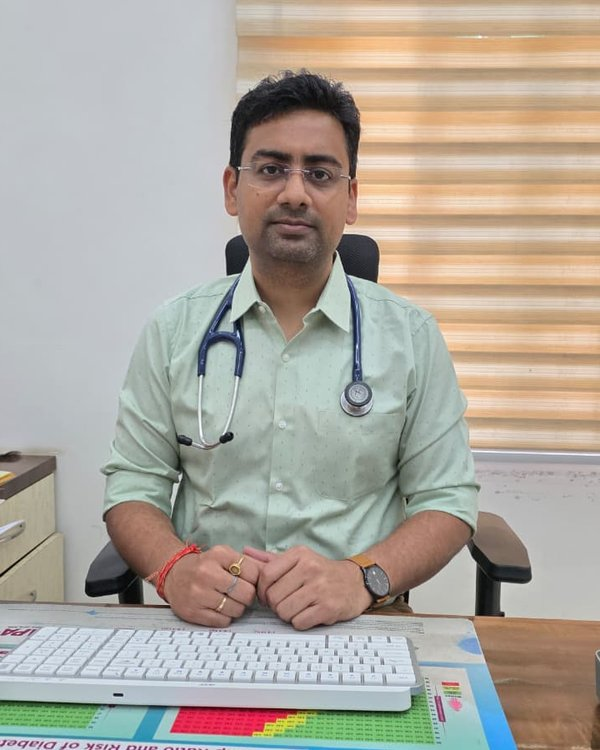
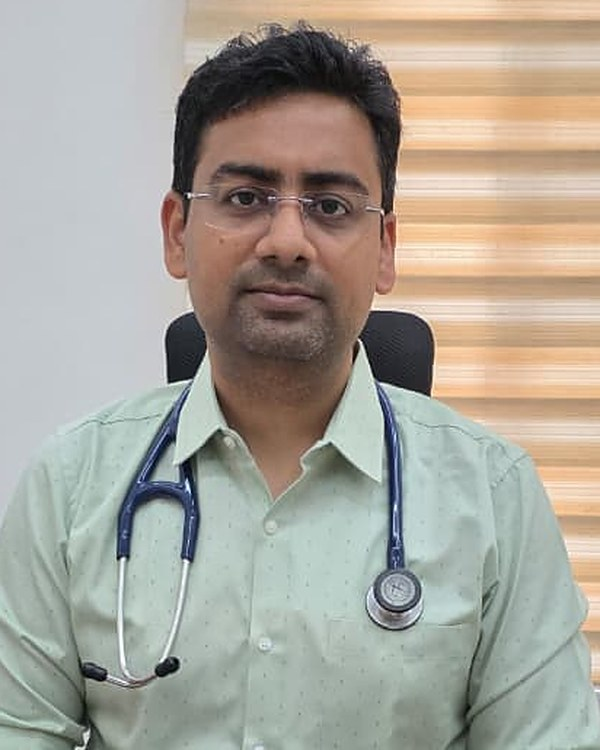
Doctors: standardise portraits, add Dr. Nidhi Surjan, reorder, remove dental section, footer emergency line

diff --git a/doctors.html b/doctors.html
@@ -101,7 +101,7 @@
         <!-- Resident doctors -->
         <section aria-labelledby="resident-doctors-heading">
           <h2 id="resident-doctors-heading">Resident doctors</h2>
-          <div class="doctors-grid-2" style="max-width:760px;">
+          <div class="doctors-grid">
             <!-- Dr. Tanay Surjan -->
             <div class="card doctor-card">
               <div class="doctor-photo-frame">
@@ -115,6 +115,23 @@
               <p class="doctor-qualification">MBBS, MD (General Medicine)</p>
               <p class="doctor-speciality">Speciality: General Medicine</p>
               <p class="doctor-experience">11 years of experience</p>
+              <p class="doctor-timing-note">For days and timings, please call the hospital.</p>
+              <a href="tel:+918602565053" class="btn btn-outline dept-call-btn">📞 Call to enquire</a>
+            </div>
+
+            <!-- Dr. Nidhi Surjan -->
+            <div class="card doctor-card">
+              <!-- PHOTO PENDING: when the photo arrives, save it as assets/images/doctors/dr-nidhi-surjan.jpg (600x750, 4:5, head-and-shoulders, same framing as the other two portraits) and replace this placeholder block with the same <img> markup used for the other resident doctors, alt="Portrait of Dr. Nidhi Surjan". -->
+              <div class="doctor-photo-frame doctor-photo-placeholder">
+                <div class="doctor-placeholder-inner">
+                  <img src="assets/icons/doctor-avatar.svg" width="96" height="96" alt="" class="doctor-avatar">
+                  <div class="tbc-block"><p class="doctor-placeholder-text">Photo coming soon</p></div>
+                </div>
+              </div>
+              <h3 class="doctor-name">Dr. Nidhi Surjan</h3>
+              <p class="doctor-qualification">BDS</p>
+              <p class="doctor-speciality">Speciality: Dentist</p>
+              <p class="doctor-experience">12 years of experience</p>
               <p class="doctor-timing-note">For days and timings, please call the hospital.</p>
               <a href="tel:+918602565053" class="btn btn-outline dept-call-btn">📞 Call to enquire</a>
             </div>
@@ -141,8 +158,8 @@
         <!-- Visiting consultants -->
         <section style="margin-top:3rem;" aria-labelledby="visiting-consultants-heading">
           <h2 id="visiting-consultants-heading">Visiting consultants</h2>
-          <p>Visiting consultants and their visiting schedule.</p>
-          <div class="doctors-grid-3">
+          <p class="visiting-schedule-intro">Visiting consultants and their visiting schedule.</p>
+          <div class="doctors-grid">
             <!-- Dr. Sumit Bhatnagar -->
             <div class="card doctor-card" style="text-align:center;">
               <div class="doctor-avatar-wrap">
@@ -175,21 +192,7 @@
           </div>
 
           <div style="margin-top:1.5rem; text-align:center;">
-            <p style="margin-bottom:1rem;">Please call to confirm the date before you visit.</p>
-            <a href="tel:+918602565053" class="btn btn-outline dept-call-btn">📞 Call to enquire</a>
-          </div>
-        </section>
-
-        <!-- Dental department -->
-        <section style="margin-top:3rem;" aria-labelledby="dental-heading">
-          <h2 id="dental-heading">Dental department</h2>
-          <div class="card dept-card" style="max-width:400px; margin-top:1.5rem;">
-            <div class="dept-badge-wrap">
-              <img src="assets/icons/dept-dental.svg" width="96" height="96" alt="" class="dept-badge">
-            </div>
-            <h3>Dental</h3>
-            <p>Care for the teeth, gums and mouth, including check-ups and treatment of common problems such as tooth pain, cavities and gum disease.</p>
-            <p class="dept-consultant-note">Consultant details: please call the hospital.</p>
+            <p class="visiting-confirm-note" style="margin-bottom:1rem;">Please call to confirm the date before you visit.</p>
             <a href="tel:+918602565053" class="btn btn-outline dept-call-btn">📞 Call to enquire</a>
           </div>
         </section>
@@ -255,7 +258,7 @@
       <div class="footer-bottom">
         <p>&copy; 2026 Samarth Hospital. All rights reserved.</p>
         <p class="footer-emergency">
-          For a medical emergency, call the hospital or go to the nearest emergency department.
+          In an emergency, do not wait for an appointment. Go straight to the Casualty room.
         </p>
       </div>
     </div>

diff --git a/css/style.css b/css/style.css
@@ -2032,31 +2032,32 @@ a:focus {
 }
 
 /* ---------- Doctors Grid & Cards ---------- */
-.doctors-grid-2 {
-  display: grid;
-  grid-template-columns: 1fr;
-  gap: 1.5rem;
+.doctors-grid {
+  display: flex;
+  flex-wrap: wrap;
+  justify-content: center;
+  align-items: stretch;
+  gap: 20px;
   margin-top: 1.5rem;
 }
-@media (min-width: 640px) {
-  .doctors-grid-2 {
-    grid-template-columns: repeat(2, 1fr);
-  }
-}
-.doctors-grid-3 {
-  display: grid;
-  grid-template-columns: 1fr;
-  gap: 1.5rem;
-  margin-top: 1.5rem;
+.doctors-grid .doctor-card {
+  flex: 0 0 100%;
+  width: 100%;
+  max-width: 100%;
+  box-sizing: border-box;
 }
 @media (min-width: 600px) {
-  .doctors-grid-3 {
-    grid-template-columns: repeat(2, 1fr);
+  .doctors-grid .doctor-card {
+    flex: 0 0 calc((100% - 20px) / 2);
+    width: calc((100% - 20px) / 2);
+    max-width: calc((100% - 20px) / 2);
   }
 }
-@media (min-width: 900px) {
-  .doctors-grid-3 {
-    grid-template-columns: repeat(3, 1fr);
+@media (min-width: 1024px) {
+  .doctors-grid .doctor-card {
+    flex: 0 0 calc((100% - 40px) / 3);
+    width: calc((100% - 40px) / 3);
+    max-width: calc((100% - 40px) / 3);
   }
 }
 
@@ -2068,7 +2069,7 @@ a:focus {
   border-radius: var(--radius);
   padding: 1.5rem;
   box-shadow: var(--shadow-sm);
-  height: 100%;
+  height: auto;
 }
 .doctor-photo-frame {
   aspect-ratio: 4 / 5;
@@ -2085,11 +2086,38 @@ a:focus {
   width: 100%;
   height: 100%;
   object-fit: cover;
-  object-position: 50% 20%;
+  object-position: 50% 50%;
   display: block;
 }
 .doctor-photo-frame-sm {
   max-width: 200px;
+}
+.doctor-photo-placeholder {
+  background-color: var(--tint);
+  display: flex;
+  align-items: center;
+  justify-content: center;
+}
+.doctor-placeholder-inner {
+  display: flex;
+  flex-direction: column;
+  align-items: center;
+  justify-content: center;
+  text-align: center;
+  padding: 1rem;
+}
+.doctor-placeholder-inner .doctor-avatar {
+  width: 80px;
+  height: 80px;
+  display: block;
+}
+.doctor-placeholder-text {
+  font-size: 0.88rem;
+  font-weight: 600;
+  color: var(--ink);
+  margin-top: 0.5rem;
+  margin-bottom: 0;
+  text-align: center;
 }
 .doctor-name {
   font-size: 1.25rem;
@@ -2119,6 +2147,9 @@ a:focus {
   margin-top: auto;
   margin-bottom: 1.25rem;
 }
+.doctor-card .dept-call-btn {
+  margin-top: 0;
+}
 .doctor-schedule {
   font-size: 0.95rem;
   font-weight: 600;
@@ -2135,6 +2166,11 @@ a:focus {
   width: 100%;
   height: 100%;
   display: block;
+}
+.visiting-schedule-intro,
+.visiting-confirm-note {
+  color: var(--grey);
+  font-size: 1.05rem;
 }
 
 /* ---------- 19. Print Styles ---------- */

diff --git a/index.html b/index.html
@@ -262,7 +262,7 @@
       <div class="container">
         <h2 id="doctors-heading" class="section-title">Our Doctors</h2>
 
-        <div class="doctors-grid-2" style="max-width:680px; margin:1.5rem auto 0;">
+        <div class="doctors-grid">
           <!-- Dr. Tanay Surjan -->
           <div class="card doctor-card">
             <div class="doctor-photo-frame doctor-photo-frame-sm">
@@ -276,6 +276,23 @@
             <p class="doctor-qualification">MBBS, MD (General Medicine)</p>
             <p class="doctor-speciality">Speciality: General Medicine</p>
             <p class="doctor-experience">11 years of experience</p>
+            <p class="doctor-timing-note">For days and timings, please call the hospital.</p>
+            <a href="tel:+918602565053" class="btn btn-outline dept-call-btn">📞 Call to enquire</a>
+          </div>
+
+          <!-- Dr. Nidhi Surjan -->
+          <div class="card doctor-card">
+            <!-- PHOTO PENDING: when the photo arrives, save it as assets/images/doctors/dr-nidhi-surjan.jpg (600x750, 4:5, head-and-shoulders, same framing as the other two portraits) and replace this placeholder block with the same <img> markup used for the other resident doctors, alt="Portrait of Dr. Nidhi Surjan". -->
+            <div class="doctor-photo-frame doctor-photo-frame-sm doctor-photo-placeholder">
+              <div class="doctor-placeholder-inner">
+                <img src="assets/icons/doctor-avatar.svg" width="96" height="96" alt="" class="doctor-avatar">
+                <div class="tbc-block"><p class="doctor-placeholder-text">Photo coming soon</p></div>
+              </div>
+            </div>
+            <h3 class="doctor-name">Dr. Nidhi Surjan</h3>
+            <p class="doctor-qualification">BDS</p>
+            <p class="doctor-speciality">Speciality: Dentist</p>
+            <p class="doctor-experience">12 years of experience</p>
             <p class="doctor-timing-note">For days and timings, please call the hospital.</p>
             <a href="tel:+918602565053" class="btn btn-outline dept-call-btn">📞 Call to enquire</a>
           </div>
@@ -571,7 +588,7 @@
       <div class="footer-bottom">
         <p>&copy; 2026 Samarth Hospital. All rights reserved.</p>
         <p class="footer-emergency">
-          For a medical emergency, call the hospital or go to the nearest emergency department.
+          In an emergency, do not wait for an appointment. Go straight to the Casualty room.
         </p>
       </div>
     </div>

diff --git a/bmw-management.html b/bmw-management.html
@@ -1240,7 +1240,7 @@
       <div class="footer-bottom">
         <p>&copy; 2026 Samarth Hospital. All rights reserved.</p>
         <p class="footer-emergency">
-          For a medical emergency, call the hospital or go to the nearest emergency department.
+          In an emergency, do not wait for an appointment. Go straight to the Casualty room.
         </p>
       </div>
     </div>

diff --git a/about.html b/about.html
@@ -280,7 +280,7 @@
       <div class="footer-bottom">
         <p>&copy; 2026 Samarth Hospital. All rights reserved.</p>
         <p class="footer-emergency">
-          For a medical emergency, call the hospital or go to the nearest emergency department.
+          In an emergency, do not wait for an appointment. Go straight to the Casualty room.
         </p>
       </div>
     </div>

diff --git a/contact.html b/contact.html
@@ -260,7 +260,7 @@
       <div class="footer-bottom">
         <p>&copy; 2026 Samarth Hospital. All rights reserved.</p>
         <p class="footer-emergency">
-          For a medical emergency, call the hospital or go to the nearest emergency department.
+          In an emergency, do not wait for an appointment. Go straight to the Casualty room.
         </p>
       </div>
     </div>

diff --git a/gallery.html b/gallery.html
@@ -423,7 +423,7 @@
       <div class="footer-bottom">
         <p>&copy; 2026 Samarth Hospital. All rights reserved.</p>
         <p class="footer-emergency">
-          For a medical emergency, call the hospital or go to the nearest emergency department.
+          In an emergency, do not wait for an appointment. Go straight to the Casualty room.
         </p>
       </div>
     </div>

diff --git a/privacy.html b/privacy.html
@@ -197,7 +197,7 @@
       <div class="footer-bottom">
         <p>&copy; 2026 Samarth Hospital. All rights reserved.</p>
         <p class="footer-emergency">
-          For a medical emergency, call the hospital or go to the nearest emergency department.
+          In an emergency, do not wait for an appointment. Go straight to the Casualty room.
         </p>
       </div>
     </div>

diff --git a/services.html b/services.html
@@ -213,7 +213,7 @@
       <div class="footer-bottom">
         <p>&copy; 2026 Samarth Hospital. All rights reserved.</p>
         <p class="footer-emergency">
-          For a medical emergency, call the hospital or go to the nearest emergency department.
+          In an emergency, do not wait for an appointment. Go straight to the Casualty room.
         </p>
       </div>
     </div>

diff --git a/environment.html b/environment.html
@@ -99,7 +99,7 @@
       <div class="footer-bottom">
         <p>&copy; 2026 Samarth Hospital. All rights reserved.</p>
         <p class="footer-emergency">
-          For a medical emergency, call the hospital or go to the nearest emergency department.
+          In an emergency, do not wait for an appointment. Go straight to the Casualty room.
         </p>
       </div>
     </div>

diff --git a/README.md b/README.md
@@ -58,6 +58,29 @@ Hospital photographs are stored in `assets/images/photos/`. See `assets/images/p
 
 **Privacy rule:** Faces of patients, visitors, and staff, as well as vehicle number plates, must be blurred in all public photos before use. Never publish unblurred photos of people. Do not edit, re-compress, or replace these photos without maintaining the same privacy protections.
 
+### Doctor Portraits
+
+Resident doctor portraits are stored in `assets/images/doctors/`.
+
+**Portrait specification:**
+- Dimensions: 600×750 pixels (4:5 aspect ratio).
+- Composition: head-and-shoulders portrait.
+- Eye line: eyes positioned at approximately 28% from the top of the frame.
+- Face width: face width approximately 35% of the frame.
+- Framing: all portraits must share the same eye line, chin position, and face size so they render consistently without CSS overrides.
+
+**Three steps to replace Dr. Nidhi Surjan's placeholder:**
+1. Save the new portrait as `assets/images/doctors/dr-nidhi-surjan.jpg` (600×750, 4:5, head-and-shoulders, matching the portrait specification above).
+2. In `doctors.html`, locate the `PHOTO PENDING` comment in Dr. Nidhi Surjan's card and replace the `.doctor-photo-placeholder` block with:
+   ```html
+   <img src="assets/images/doctors/dr-nidhi-surjan.jpg"
+        alt="Portrait of Dr. Nidhi Surjan"
+        width="600" height="750"
+        loading="lazy"
+        decoding="async">
+   ```
+3. In `index.html`, locate the `PHOTO PENDING` comment in the doctors preview and replace the `.doctor-photo-placeholder` block with the same `<img>` tag inside `<div class="doctor-photo-frame doctor-photo-frame-sm">`.
+
 ## How to Change Colours (Design System)
 
 All brand colours are defined as CSS variables at the top of **`css/style.css`** under the `:root` selector:

diff --git a/TODO-before-launch.md b/TODO-before-launch.md
@@ -17,7 +17,7 @@
   - Confirm active operating days for other departments (e.g. Monday to Saturday or 7 days).
   - Confirm Sunday and public holiday opening hours.
 - [ ] **Emergency / ambulance phone number** — Confirm if there is a separate dedicated emergency or ambulance contact number.
-- [ ] **Dentist details** — Obtain dentist's name, qualification and photo for the Dental department.
+- [ ] **Photo of Dr. Nidhi Surjan** — Photo of Dr. Nidhi Surjan (save as assets/images/doctors/dr-nidhi-surjan.jpg and replace the placeholder; see the comment in doctors.html and index.html).
 - [ ] **Visiting consultants details** — Obtain visiting consultants' qualifications and photos.
 - [ ] **Doctor timings** — Confirm exact days and timings per doctor.
 - [ ] **Doctors link hidden in launch mode** — Doctors link hidden in launch mode: when remaining doctor details arrive, remove the tbc-block class from the nav and footer items.
